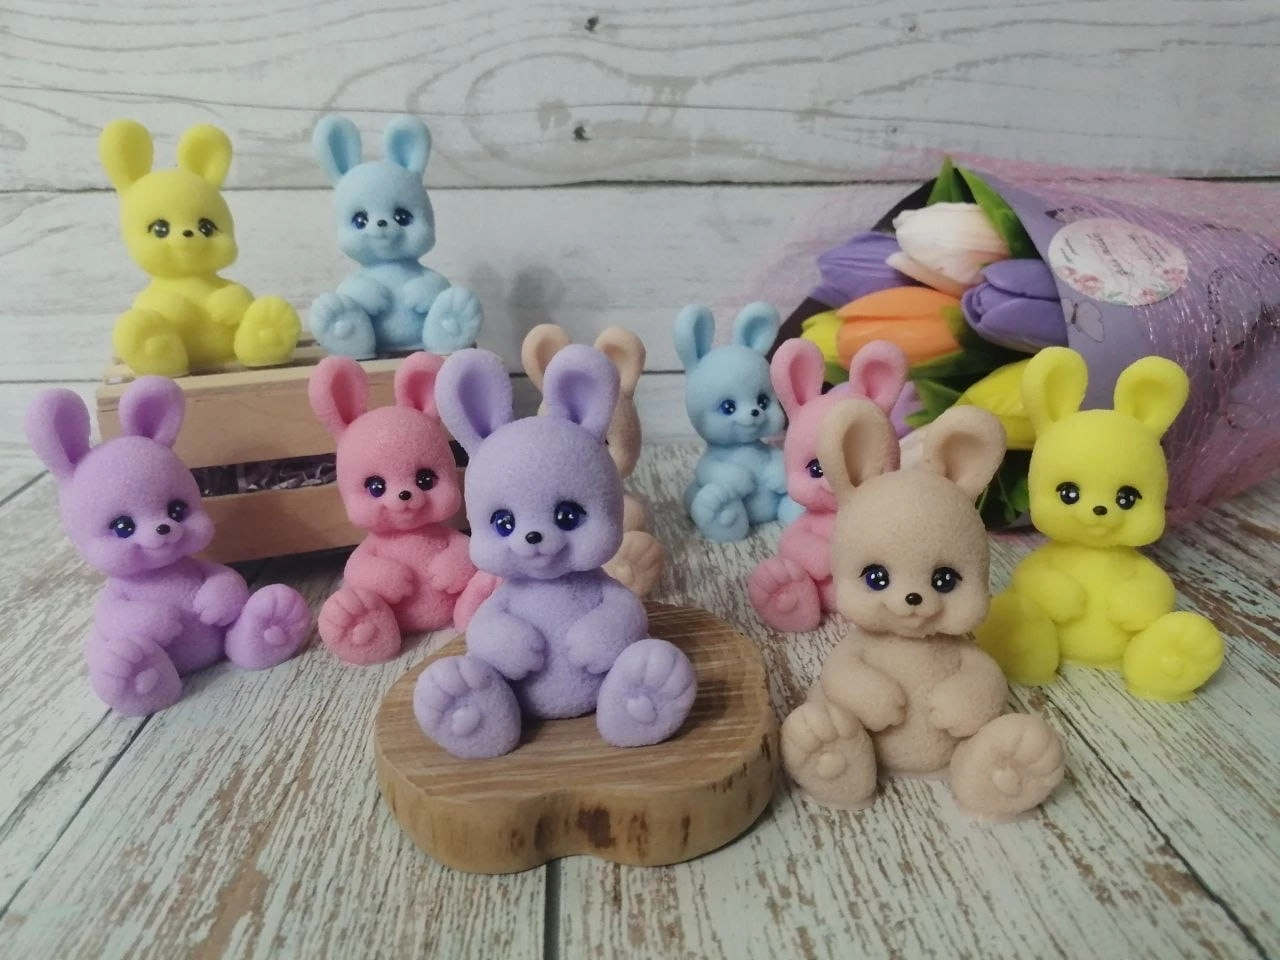
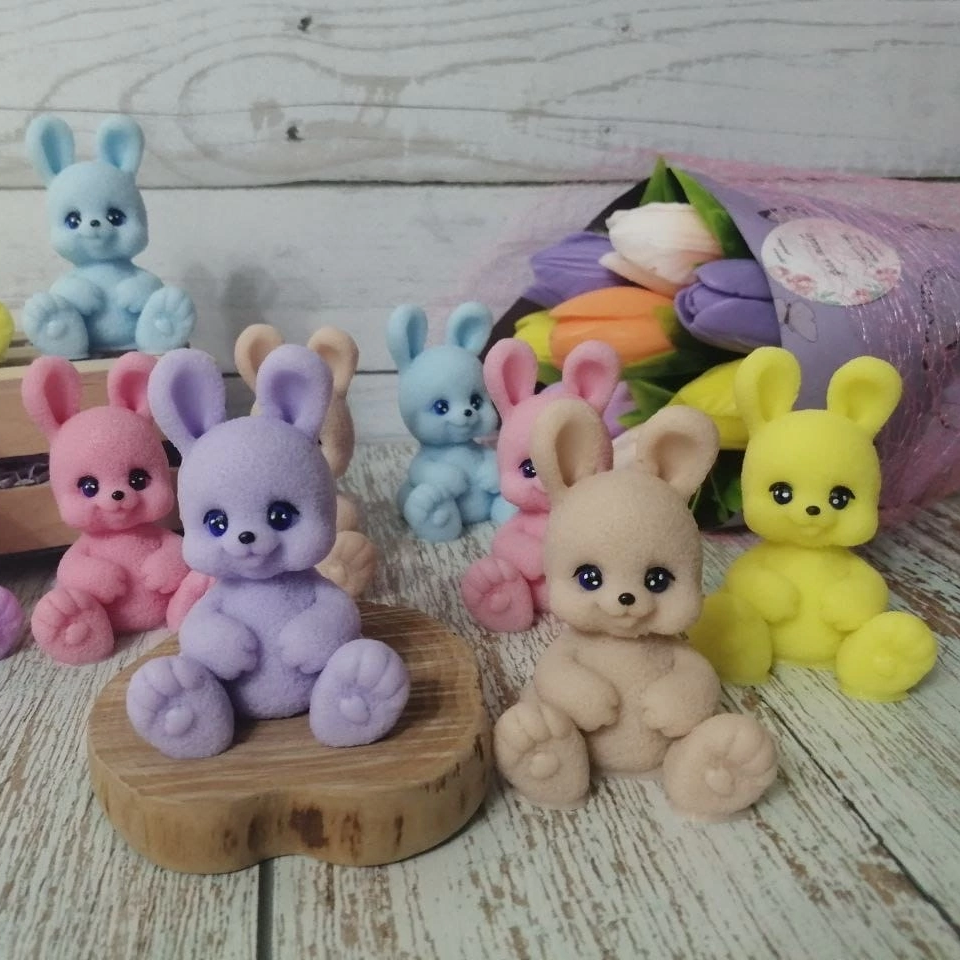
change imgs in shop html. add in shop scss

diff --git a/design/shop.html b/design/shop.html
@@ -47,8 +47,29 @@
 				<div class="shop-page__heading">
 					Примеры работ наших мастеров
 				</div>
-				<div>
-					<img src="../design/assets/images/shop/collage1.jpg" alt="collage of works" class="shop-page-collage">
+				<div class="shop-page__grid">
+					<div class="shop-page__grid-one">
+						<img src="../design/assets/images/shop/IMG_5987.PNG" class="shop-page__grid-one-img">
+						<img src="../design/assets/images/shop/IMG_5988.PNG" class="shop-page__grid-one-img">
+						<img src="../design/assets/images/shop/IMG_5989.PNG" class="shop-page__grid-one-img">
+					</div>
+					<div class="shop-page__grid-two">
+						<img src="../design/assets/images/shop/IMG_5995.PNG" class="shop-page__grid-two-img">
+						<img src="../design/assets/images/shop/IMG_5983.PNG" class="shop-page__grid-two-img">
+						<img src="../design/assets/images/shop/IMG_5981.PNG" class="shop-page__grid-two-img">
+						<img src="../design/assets/images/shop/IMG_5993.PNG" class="shop-page__grid-two-img">
+					</div>
+					<div class="shop-page__grid-three">
+						<img src="../design/assets/images/shop/IMG_5980.PNG" class="shop-page__grid-three-img">
+						<img src="../design/assets/images/shop/IMG_5997.PNG" class="shop-page__grid-three-img">
+						<img src="../design/assets/images/shop/IMG_5992.PNG" class="shop-page__grid-three-img">
+					</div>
+					<div class="shop-page__grid-four">
+						<img src="../design/assets/images/shop/IMG_5991.PNG" class="shop-page__grid-four-img">
+						<img src="../design/assets/images/shop/IMG_5979.PNG" class="shop-page__grid-four-img">
+						<img src="../design/assets/images/shop/IMG_5978.PNG" class="shop-page__grid-four-img">
+						<img src="../design/assets/images/shop/IMG_5990.PNG" class="shop-page__grid-four-img">
+					</div>
 				</div>
 			</div>
 

diff --git a/src/scss/pages/shop.scss b/src/scss/pages/shop.scss
@@ -1,6 +1,5 @@
 @import "../layouts/variables.scss";
 .shop-page__wrapper {
-    background-color: #FBFFE9;
     padding-top: 90px;
 }
 .shop-page__heading {
@@ -56,11 +55,52 @@ margin-top: 20px;
     margin-right: auto;
     
 }
-.shop-page-collage {
-    width: 1000px;
-height: 1414px;
+.shop-page__grid {
 margin-top: 44px;
-display: block;
+}
+
+.shop-page__grid-one {
+    display: grid;
+    grid-template-columns: 1fr 1fr 1fr;
+
+}
+.shop-page__grid-one-img {
+width: 390px;
 margin-left: auto;
-margin-right: auto 
+margin-right: auto;
+border-radius: 45px;
+} 
+.shop-page__grid-two {
+    display: grid;
+    grid-template-columns: 1fr 1fr 1fr 1fr;
+}
+
+.shop-page__grid-two-img {
+    width: 290px;
+    margin-left: auto;
+margin-right: auto;
+border-radius: 45px;
+margin-top: 7px;
+}
+.shop-page__grid-three {
+    display: grid;
+    grid-template-columns: 1fr 1fr 1fr;
+}
+.shop-page__grid-three-img {
+    width: 391px;
+    margin-left: auto;
+margin-right: auto;
+border-radius: 45px;
+margin-top: 7px;
+}
+.shop-page__grid-four {
+    display: grid;
+    grid-template-columns: 1fr 1fr 1fr 1fr; 
+}
+.shop-page__grid-four-img {
+    width: 295px;
+    margin-left: auto;
+margin-right: auto;
+border-radius: 45px;
+margin-top: 7px;
 }

diff --git a/design/assets/dist/css/main.css b/design/assets/dist/css/main.css
@@ -414,7 +414,6 @@ p {
 }
 
 .shop-page__wrapper {
-  background-color: #FBFFE9;
   padding-top: 90px;
 }
 
@@ -476,11 +475,57 @@ p {
   margin-right: auto;
 }
 
-.shop-page-collage {
-  width: 1000px;
-  height: 1414px;
+.shop-page__grid {
   margin-top: 44px;
-  display: block;
+}
+
+.shop-page__grid-one {
+  display: grid;
+  grid-template-columns: 1fr 1fr 1fr;
+}
+
+.shop-page__grid-one-img {
+  width: 390px;
   margin-left: auto;
   margin-right: auto;
+  border-radius: 45px;
+}
+
+.shop-page__grid-two {
+  display: grid;
+  grid-template-columns: 1fr 1fr 1fr 1fr;
+}
+
+.shop-page__grid-two-img {
+  width: 290px;
+  margin-left: auto;
+  margin-right: auto;
+  border-radius: 45px;
+  margin-top: 7px;
+}
+
+.shop-page__grid-three {
+  display: grid;
+  grid-template-columns: 1fr 1fr 1fr;
+}
+
+.shop-page__grid-three-img {
+  width: 391px;
+  margin-left: auto;
+  margin-right: auto;
+  border-radius: 45px;
+  margin-top: 7px;
+}
+
+.shop-page__grid-four {
+  display: grid;
+  grid-template-columns: 1fr 1fr 1fr 1fr;
+}
+
+.shop-page__grid-four-img {
+  width: 295px;
+  margin-left: auto;
+  margin-right: auto;
+  border-radius: 45px;
+  margin-top: 7px;
 }
